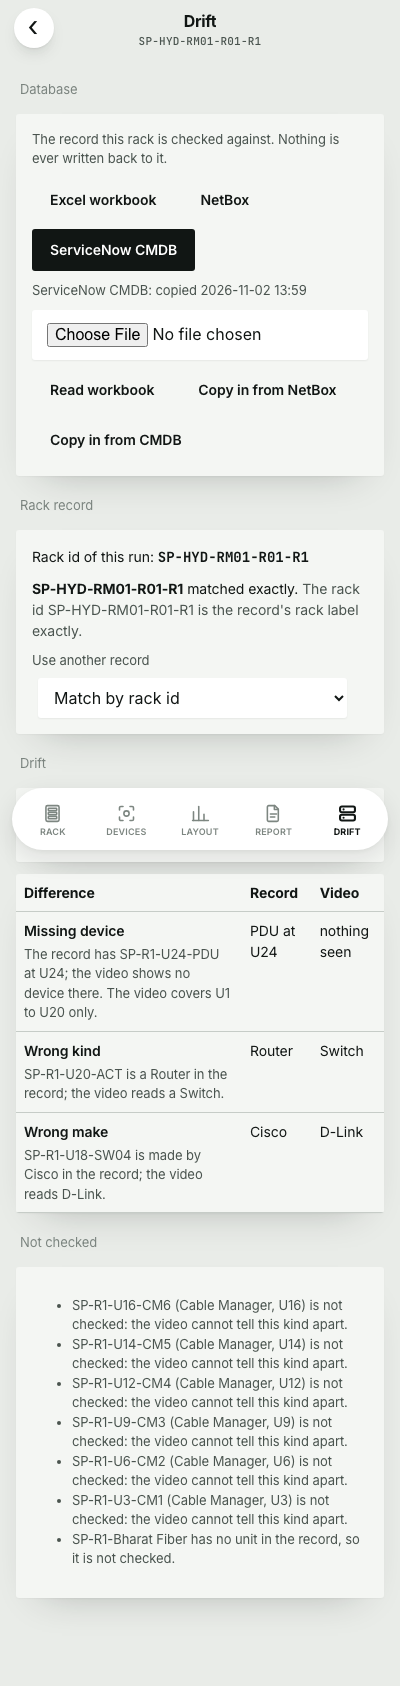
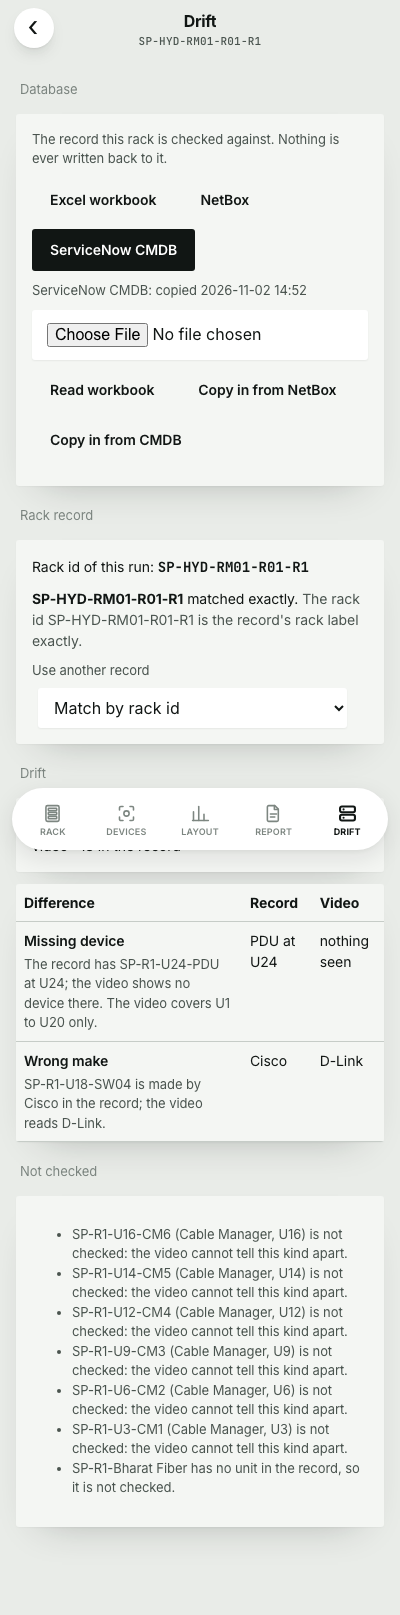
Both proofs run live on the restarted engine: proof_today now reads the workbook, waits for its report and presses Import, and the screenshots in docs/proof/today and docs/proof/afternoon are from the live engine

Changed region(s): [[0.03, 0.0, 0.99, 0.9288], [0.45, 0.0619, 0.84, 0.1238], [0.45, 0.0, 0.54, 0.031]]

diff --git a/tools/proof_today.py b/tools/proof_today.py
@@ -3,7 +3,7 @@ rack's NetBox CSV record with one planted difference:
   Excel   SP-R1-U15-SW02's model changed to TL-SG3428 in a copy of the vdo1 workbook   -> Wrong model
   NetBox  SP-R1-U7-PP3 moved from U7 to U8 in the NetBox mock                         -> Moved
   CMDB    SP-R1-U18-SW04's manufacturer changed to Cisco in the ServiceNow mock       -> Wrong make
-Everything goes through the screens (headless Chromium): the workbook upload, the two Copy in buttons, the source buttons.
+Everything goes through the screens (headless Chromium): the workbook upload and its report, Import, the two Copy in buttons, the source buttons.
 Needs the engine on 8700 (engine.sh) and the mocks on 3301 and 5301 (sources.sh). Writes docs/proof/today/.
 
   _cache/venv/bin/python tools/proof_today.py [run id]
@@ -64,6 +64,7 @@ def main():
                 if width == 1280:                                   # copy each database in once, through the screen
                     if src == "excel":
                         pg.set_input_files("#df-file", str(wb_path)); pg.click("#df-xlsx")
+                        pg.wait_for_selector("#df-import", timeout=15000); pg.click("#df-import")   # the report first, then Import
                     else:
                         pg.click(f'[data-dfimp="{src}"]')
                     pg.wait_for_timeout(1500)
